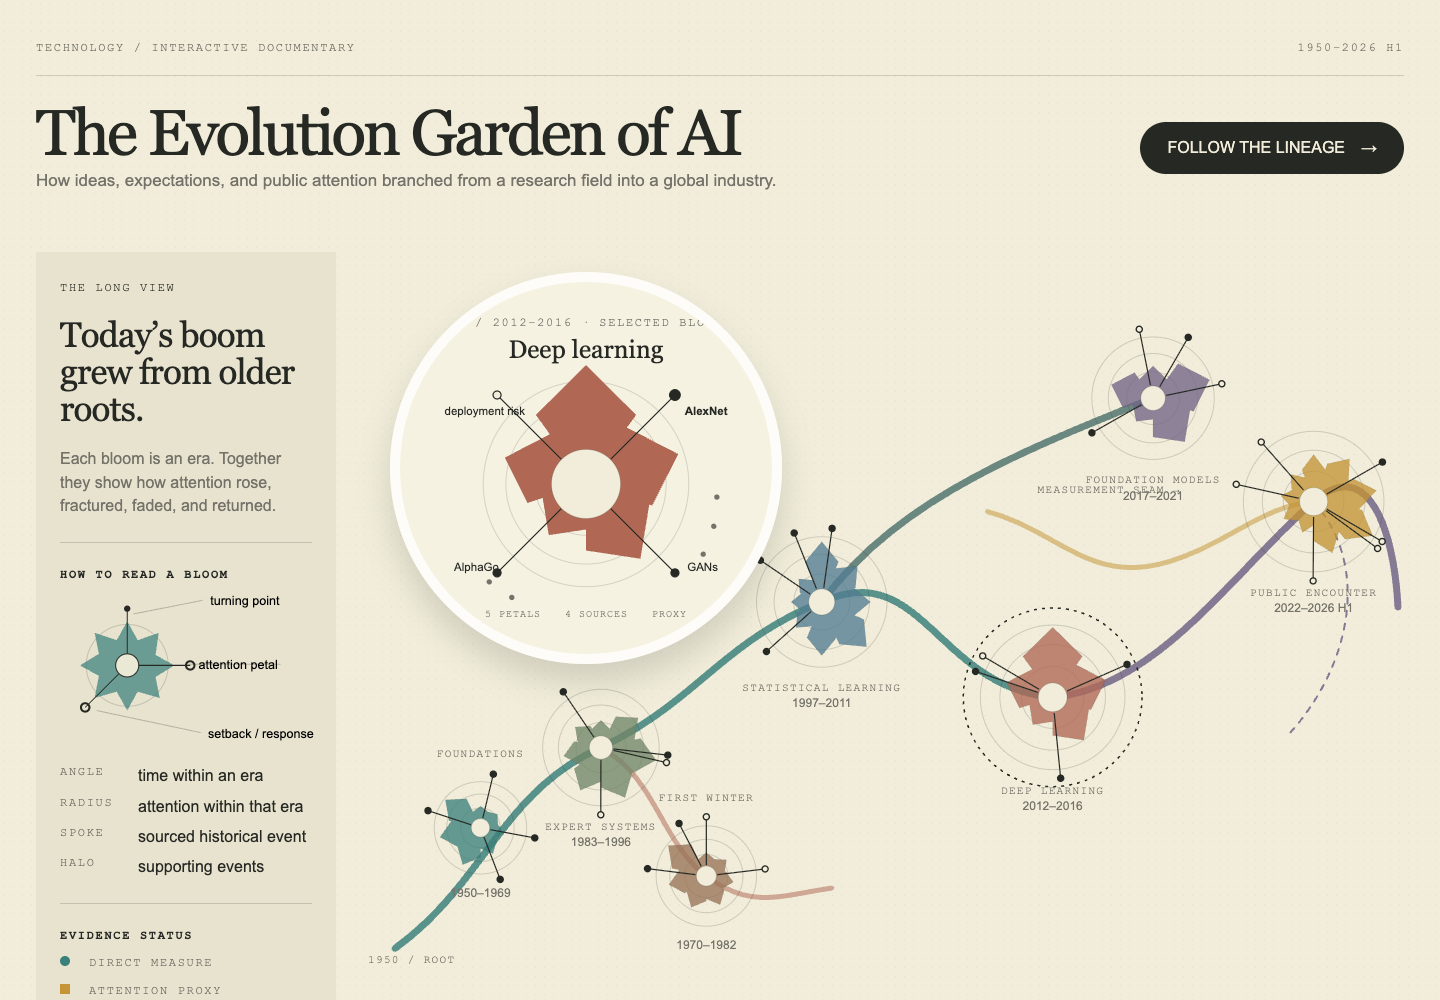
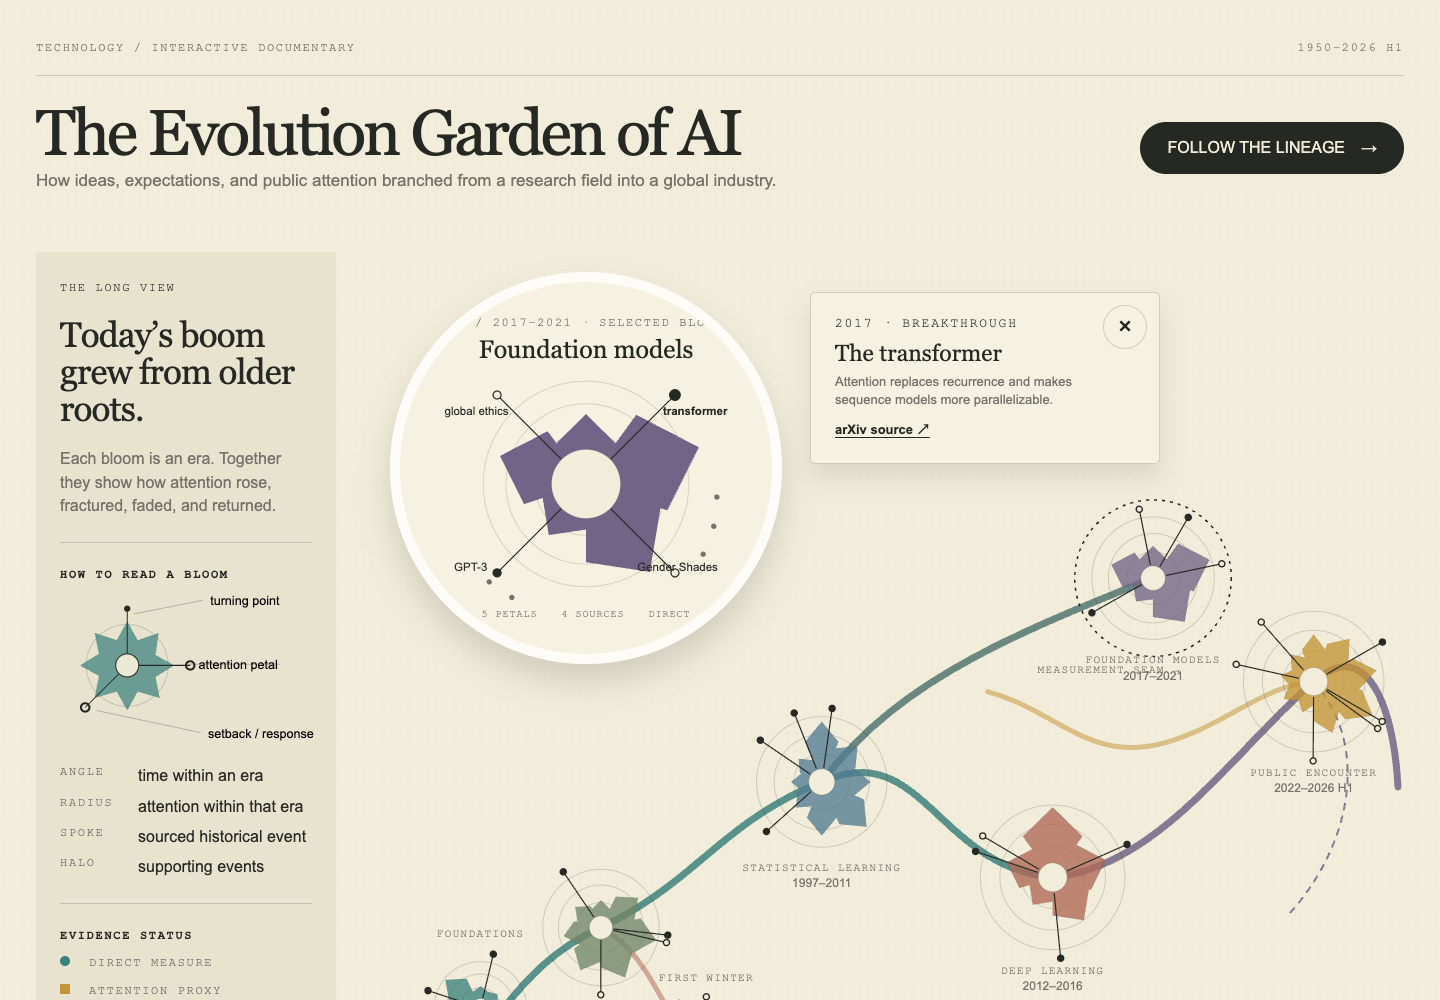
Move event info above lowered evolution map

diff --git a/Technology/ai-industry-evolution-atlas/styles.css b/Technology/ai-industry-evolution-atlas/styles.css
@@ -69,8 +69,8 @@ h1 { margin-bottom: 4px; font: 64px/.98 var(--display); letter-spacing: -.045em;
 .status-symbol.editorial { border: 1.5px solid var(--ink); border-radius: 50%; }
 .key-caveat { margin: 22px 0 0; font: 11px/1.45 var(--meta); text-transform: uppercase; letter-spacing: .12em; color: var(--muted); }
 
-.garden-stage { position: relative; min-width: 0; min-height: 720px; }
-.garden { display: block; width: 100%; height: 720px; overflow: visible; }
+.garden-stage { position: relative; min-width: 0; min-height: 900px; }
+.garden { display: block; width: 100%; height: 720px; overflow: visible; transform: translateY(180px); }
 .garden .branch { fill: none; stroke-linecap: round; opacity: .84; }
 .garden .branch-secondary { opacity: .52; }
 .garden .method-seam { stroke-dasharray: 6 7; }
@@ -97,8 +97,8 @@ h1 { margin-bottom: 4px; font: 64px/.98 var(--display); letter-spacing: -.045em;
 #selected-bloom .halo-dot { fill: var(--muted); }
 .inspector-counts { position: absolute; left: 54px; right: 54px; bottom: 34px; display: flex; justify-content: center; gap: 24px; color: var(--muted); font: 10px var(--meta); text-transform: uppercase; letter-spacing: .1em; pointer-events: none; }
 .event-detail { display: none; }
-.garden-stage.detail-open { min-height: 970px; }
-.garden-stage.detail-open .event-detail { position: absolute; z-index: 5; top: 740px; left: 30px; display: block; width: 392px; min-height: 164px; padding: 22px 56px 22px 24px; border: 1px solid var(--line); border-radius: 5px; background: rgba(246,242,226,.98); box-shadow: 0 14px 26px rgba(38,40,35,.12); text-align: left; }
+.garden-stage.detail-open { min-height: 900px; }
+.garden-stage.detail-open .event-detail { position: absolute; z-index: 5; top: 40px; left: 450px; display: block; width: 350px; min-height: 164px; padding: 22px 56px 22px 24px; border: 1px solid var(--line); border-radius: 5px; background: rgba(246,242,226,.98); box-shadow: 0 14px 26px rgba(38,40,35,.12); text-align: left; }
 .event-detail-close { position: absolute; top: 12px; right: 12px; display: grid; width: 44px; height: 44px; place-items: center; border: 1px solid var(--line); border-radius: 50%; background: transparent; cursor: pointer; font-size: 25px; line-height: 1; }
 .event-detail-close:hover { background: var(--ink); color: var(--paper); }
 .event-detail h3 { margin: 5px 0 8px; font: 23px/1.05 var(--display); }
@@ -165,7 +165,8 @@ footer { display: flex; justify-content: space-between; padding: 32px 0 50px; bo
   .atlas-shell { grid-template-columns: 250px minmax(0,1fr); }
   .reading-key { padding-inline: 18px; }
   .bloom-inspector { top: 24px; left: 20px; width: 330px; }
-  .garden-stage.detail-open .event-detail { top: 740px; left: 20px; width: 330px; }
+  .garden-stage.detail-open { min-height: 1110px; }
+  .garden-stage.detail-open .event-detail { top: 920px; left: 20px; width: 330px; }
   .chapter { grid-template-columns: 150px 1fr; }
   .event-list { grid-column: 2; }
   .method-grid { grid-template-columns: repeat(2,1fr); }
@@ -188,7 +189,7 @@ footer { display: flex; justify-content: space-between; padding: 32px 0 50px; bo
   .atlas-shell { display: flex; flex-direction: column; gap: 0; padding-top: 0; }
   .mobile-thesis { display: flex; min-height: 64px; align-items: center; justify-content: space-between; margin: 6px 0 18px; padding: 0 25px; border-radius: 999px; background: var(--ink); color: var(--paper); text-transform: uppercase; }
   .garden-stage, .garden-stage.detail-open { order: 1; min-height: auto; }
-  .garden { display: none; }
+  .garden { display: none; transform: none; }
   .bloom-inspector { position: relative; top: auto; right: auto; bottom: auto; left: auto; width: 100%; min-height: 515px; aspect-ratio: auto; border: 0; border-radius: 6px; background: rgba(230,225,205,.78); box-shadow: none; overflow: hidden; }
   .inspector-heading { position: relative; top: auto; left: auto; right: auto; padding: 30px 32px 0; text-align: left; }
   .inspector-heading .kicker { font-size: 11px; }

diff --git a/Technology/ai-industry-evolution-atlas/README.md b/Technology/ai-industry-evolution-atlas/README.md
@@ -13,7 +13,7 @@ An interactive editorial flower map tracing the cycles that shaped artificial in
 - Petals encoding the contour of attention within an era, never across incompatible source methods.
 - Filled event endpoints for breakthroughs or adoption and hollow endpoints for setbacks, harms, backlash, or governance.
 - Click, touch, and keyboard selection with shareable `?era=` and `?event=` URL state.
-- Event evidence opens outside the desktop bloom (and below it on mobile) and can be dismissed with its close button, a second spoke selection, an outside click, or Escape.
+- Event evidence opens beside the desktop bloom in a reserved upper information area (and below it on mobile) and can be dismissed with its close button, a second spoke selection, an outside click, or Escape.
 - Documentary chapters, adjacent source notes, a long description, reduced-motion behavior, and print styles.
 
 ## Evidence model
